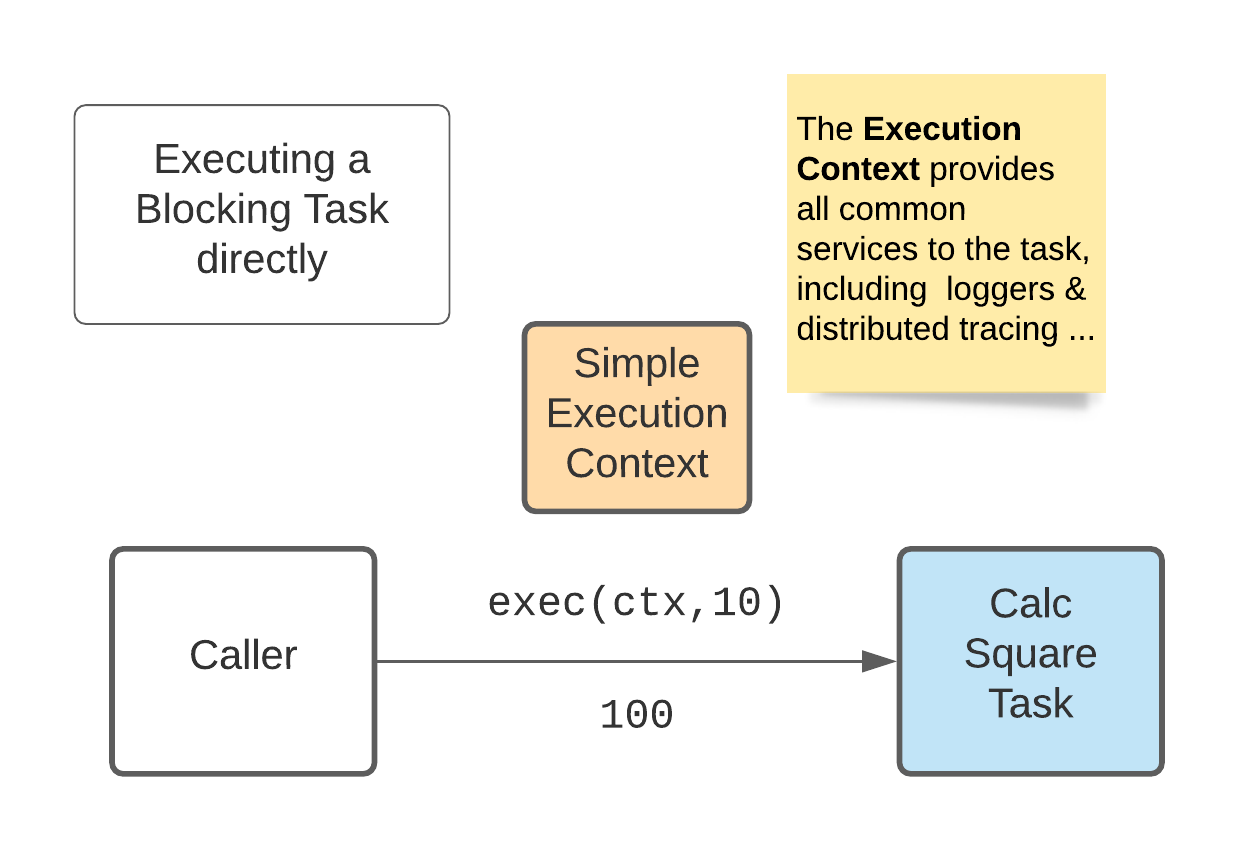
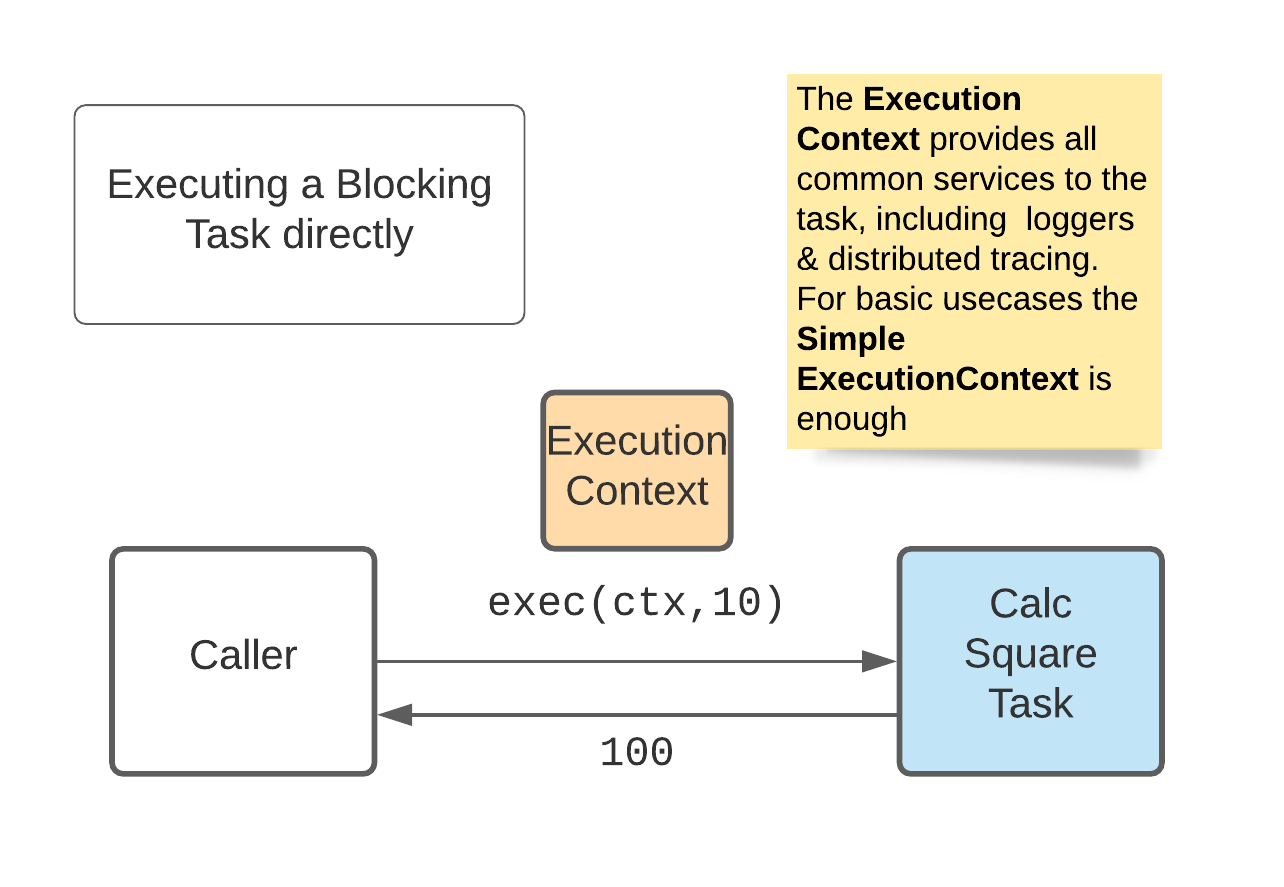
adding images to the docs

diff --git a/docs/tasks.md b/docs/tasks.md
@@ -86,7 +86,7 @@ A `Task` can be created and executed in three ways
 
 ### Executing a Blocking Task directly
 
-<img src="./images/exec-task-directly.png" width="400px"/>
+<img src="./images/exec-task-directly.png" width="400px" style="border:1px solid grey"/>
 
 The `SimpleExeccutionContext` is lightweight and suitable for testing and simple use cases
 
@@ -100,7 +100,10 @@ fun `should call task directly`() {
 }
 ```
 
-### Executing a Blocking Task via the `TaskFactory`
+### Lookup a Task via the `TaskFactory`
+
+<img src="./images/lookup-task-via-taskfactory.png" width="400px" style="border:1px solid grey"/>
+
 
 This is usually part of the server side. It allows for dynamic registration of tasks
 
